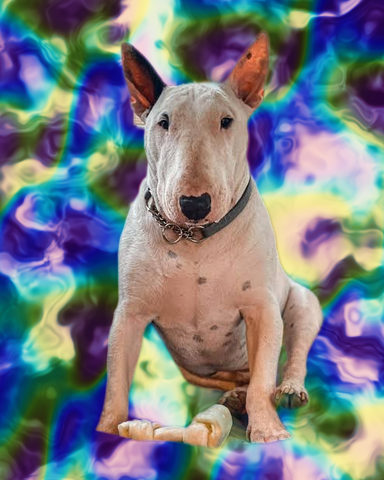
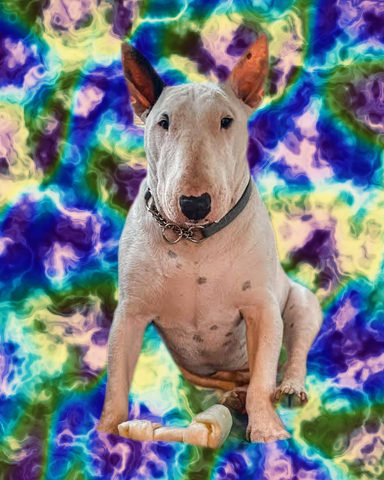
feat(noise_field)!: make worley fractal
Worley ignored octaves, persistence and lacunarity, so a third of the
kinds broke the one promise those parameters make. It now sums layers of
F1: layer i has cells of scale / lacunarity^i and weight persistence^i,
each layer measured in its own cells so layers share a range. With
octaves 1 the picture is the old one (max diff 3e-7); the default
octaves 4 changes worley's default look to clustered, fractal cells.

BREAKING CHANGE: worley's default look changes; set octaves = 1 for the
old picture.

diff --git a/src/bullterrier_image/effects/noise_field/effect.py b/src/bullterrier_image/effects/noise_field/effect.py
@@ -24,8 +24,8 @@ class NoiseFieldParams(EffectParams):
         doc="The noise: 'value' (random values on a lattice, smoothly interpolated: soft blotches), 'perlin' "
         "(gradient noise: random slopes on a lattice, finer and more even, zero at the lattice points) or 'worley' "
         "(cellular noise: the distance to the nearest of a scatter of random points, one per cell of `scale` px, "
-        "dark at each point and brightening away from it; a single layer, so it ignores `octaves`, `persistence` "
-        "and `lacunarity`) or 'sine' (crossed sine waves: smooth, regular swirls; the classic plasma).",
+        "dark at each point and brightening away from it; each layer is a finer scatter) or 'sine' (crossed sine "
+        "waves: smooth, regular swirls; the classic plasma).",
     )
     scale: float = param(
         120.0,
@@ -41,7 +41,7 @@ class NoiseFieldParams(EffectParams):
         unit="count",
         min=1,
         max=8,
-        doc="How many layers of noise are summed (value, perlin, sine), each finer than the last (by `lacunarity`) and "
+        doc="How many layers of noise are summed (all kinds), each finer than the last (by `lacunarity`) and "
         "weaker (by `persistence`). 1 = smooth, more = more fine detail. Each sine layer is two waves crossing at "
         "random angles. Layers finer than one pixel (sine: two pixels) are dropped.",
     )
@@ -50,7 +50,7 @@ class NoiseFieldParams(EffectParams):
         unit="ratio",
         min=0,
         max=1,
-        doc="How much weaker each finer layer is than the one before (value, perlin, sine): each layer's weight is "
+        doc="How much weaker each finer layer is than the one before (all kinds): each layer's weight is "
         "this to the power of its number. 0 = only the coarsest layer, 1 = every layer equally strong (very rough).",
     )
     lacunarity: float = param(
@@ -58,9 +58,9 @@ class NoiseFieldParams(EffectParams):
         unit="ratio",
         min=1,
         max=4,
-        doc="How much finer each layer is than the one before (value, perlin, sine): the lattice spacing or wavelength "
-        "is divided by this per layer. 1 = every layer the same size, 2 = each half as coarse, larger = detail drops "
-        "off faster.",
+        doc="How much finer each layer is than the one before (all kinds): the lattice spacing, cell size or "
+        "wavelength is divided by this per layer. 1 = every layer the same size, 2 = each half as coarse, larger = "
+        "detail drops off faster.",
     )
     warp: float = param(
         0.0,
@@ -124,18 +124,23 @@ def _perlin(shape: tuple[int, int], params: NoiseFieldParams, seed: int | Sequen
 
 
 def _worley(shape: tuple[int, int], params: NoiseFieldParams, seed: int | Sequence[int]) -> np.ndarray:
-    """Distance in px from every pixel to the nearest of a jittered grid of feature points, one per `scale` px cell."""
+    """Seeded fractal F1 of `shape`, layered like `fractal`: per layer the distance to the nearest point of a jittered
+    grid, in cells (so every layer has the same range whatever its cell size)."""
     height, width = shape
-    rows, cols = math.ceil(height / params.scale) + 2, math.ceil(width / params.scale) + 2  # a ring of cells around
     rng = np.random.default_rng(seed)
-    cell_y, cell_x = np.indices((rows, cols)) - 1
-    point_y = (cell_y + rng.random((rows, cols))) * params.scale
-    point_x = (cell_x + rng.random((rows, cols))) * params.scale
-    pixel_y, pixel_x = np.indices(shape)
-    distance, _ = cKDTree(np.column_stack((point_y.ravel(), point_x.ravel()))).query(
-        np.column_stack((pixel_y.ravel(), pixel_x.ravel()))
-    )
-    return standardise(distance.reshape(shape))
+    pixels = np.column_stack([axis.ravel() for axis in np.indices(shape)])
+    field = np.zeros(shape, np.float32)
+    for octave in range(params.octaves):
+        cell = params.scale / params.lacunarity**octave
+        if cell < 1:
+            break
+        rows, cols = math.ceil(height / cell) + 2, math.ceil(width / cell) + 2  # a ring of cells around
+        cell_y, cell_x = np.indices((rows, cols)) - 1
+        point_y = (cell_y + rng.random((rows, cols))) * cell
+        point_x = (cell_x + rng.random((rows, cols))) * cell
+        distance, _ = cKDTree(np.column_stack((point_y.ravel(), point_x.ravel()))).query(pixels)
+        field += params.persistence**octave * (distance / cell).reshape(shape)
+    return standardise(field)
 
 
 def _wave(
@@ -197,8 +202,9 @@ def noise_field(rgb: np.ndarray, params: NoiseFieldParams) -> np.ndarray:
     standardised to zero mean and unit deviation over the picture and passed through the normal cumulative
     distribution, so a pixel's place on the colour ramp is about its rank among all pixels. 'value' is `fractal`
     noise; 'perlin' sums octaves of gradient noise (a Gaussian random slope at each lattice point, blended with
-    Perlin's fade curve); 'worley' is the distance to the nearest feature point (F1); 'sine' sums octaves of two
-    plane sine waves sin(2 pi (x cos a + y sin a) / w + p) of wavelength w = `scale` / `lacunarity`**i, random
+    Perlin's fade curve); 'worley' sums octaves of F1 (the distance to the nearest feature point, one point per cell
+    of `scale` / `lacunarity`**i, measured in those cells), weight `persistence`**i; 'sine' sums octaves of two plane
+    sine waves sin(2 pi (x cos a + y sin a) / w + p) of wavelength w = `scale` / `lacunarity`**i, random
     directions a and phases p, weight `persistence`**i, layer i evaluated at positions pushed along x and y by `warp`
     px times the two waves of layer i - 1.
 

diff --git a/tests/effects/noise_field/test_noise_field.py b/tests/effects/noise_field/test_noise_field.py
@@ -12,7 +12,6 @@ NAME = "noise_field"
 # kinds), so a merely small warp moves no pixel by more than this; a jump on leaving 0 does.
 TINY_WARP_MOVES_BY_AT_MOST = 0.005
 KINDS = ["value", "perlin", "worley", "sine"]
-LAYERED = ["value", "perlin", "sine"]  # the kinds built from octaves; worley is a single layer
 GREY = ["#000000", "#ffffff"]
 
 
@@ -62,7 +61,7 @@ def test_a_larger_scale_gives_broader_features(kind: str) -> None:
     assert fine < medium < coarse
 
 
-@pytest.mark.parametrize("kind", LAYERED)
+@pytest.mark.parametrize("kind", KINDS)
 @pytest.mark.parametrize(
     ("smoother", "rougher"),
     [
@@ -77,10 +76,20 @@ def test_the_layers_are_set_by_octaves_persistence_and_lacunarity(kind: str, smo
     assert autocorrelation(rough, lag=1) < autocorrelation(smooth, lag=1) - 0.01
 
 
-def test_worley_is_one_layer_whatever_the_octave_settings() -> None:
-    single = field({"kind": "worley", "octaves": 1, "persistence": 0.1, "lacunarity": 1.0})
+@pytest.mark.parametrize("kind", KINDS)
+def test_with_one_octave_persistence_and_lacunarity_change_nothing(kind: str) -> None:
+    """There is no second layer to weigh or to make finer."""
+    single = field({"kind": kind, "octaves": 1, "persistence": 0.1, "lacunarity": 1.0, "seed": 2})
     np.testing.assert_array_equal(
-        field({"kind": "worley", "octaves": 5, "persistence": 0.9, "lacunarity": 3.0}), single
+        field({"kind": kind, "octaves": 1, "persistence": 0.9, "lacunarity": 3.0, "seed": 2}), single
+    )
+
+
+@pytest.mark.parametrize("kind", KINDS)
+def test_zero_persistence_leaves_only_the_first_layer(kind: str) -> None:
+    only_first = field({"kind": kind, "octaves": 1, "seed": 6})
+    np.testing.assert_allclose(
+        field({"kind": kind, "octaves": 4, "persistence": 0.0, "seed": 6}), only_first, atol=1e-5
     )
 
 
@@ -100,15 +109,16 @@ def test_worley_has_one_feature_point_per_cell() -> None:
     """Distance to the nearest feature point is 0 at the point and grows away from it, so the picture's local minima
     are the feature points: one in each 20 px cell. Away from the border (where the nearest point may lie outside the
     picture) the 180 x 180 px middle of 200 px holds 81 cells' worth, all equally dark (distance ~0)."""
-    grey = field({"kind": "worley", "scale": 20.0, "seed": 3}, shape=(200, 200))
+    grey = field({"kind": "worley", "scale": 20.0, "octaves": 1, "seed": 3}, shape=(200, 200))
     minima = (grey == ndimage.minimum_filter(grey, size=3))[10:-10, 10:-10]
     assert minima.sum() == pytest.approx(81, abs=10)
     assert grey[10:-10, 10:-10][minima].max() - grey.min() < 0.1
 
 
-@pytest.mark.parametrize("kind", ["value", "perlin"])
+@pytest.mark.parametrize("kind", ["value", "perlin", "worley"])
 def test_layers_finer_than_a_pixel_are_left_out(kind: str) -> None:
-    """Lattice spacings 3, 1.5, 0.75, ...: from the third layer on they are finer than the pixel grid: no effect."""
+    """Lattice spacings or cell sizes 3, 1.5, 0.75, ...: from the third layer on they are finer than the pixel grid, so
+    they add nothing."""
     two = field({"kind": kind, "scale": 3.0, "octaves": 2})
     np.testing.assert_array_equal(field({"kind": kind, "scale": 3.0, "octaves": 8}), two)
 
@@ -129,13 +139,14 @@ def test_perlin_bends_smoothly_across_the_lattice_lines() -> None:
 
 
 def test_worley_has_feature_points_just_beyond_the_border_too() -> None:
-    """The nearest point to a pixel at the edge can lie outside the picture, so over many seeds the top and left 3 px
-    bands are as dark as the middle on average (without points beyond the edge they are about 0.2 brighter)."""
+    """The nearest point to a pixel at the edge can lie outside the picture, so over many seeds the 3 px bands along
+    all four edges are as dark as the middle on average (without points beyond the edge they are about 0.2 brighter)."""
     excess = []
     for seed in range(10):
-        grey = field({"kind": "worley", "scale": 20.0, "seed": seed}, shape=(200, 200))
+        grey = field({"kind": "worley", "scale": 20.0, "octaves": 1, "seed": seed}, shape=(200, 200))
         middle = grey[40:-40, 40:-40].mean()
-        excess += [grey[:3, 40:-40].mean() - middle, grey[40:-40, :3].mean() - middle]
+        bands = [grey[:3, 40:-40], grey[-3:, 40:-40], grey[40:-40, :3], grey[40:-40, -3:]]
+        excess += [band.mean() - middle for band in bands]
     assert np.mean(excess) == pytest.approx(0.0, abs=0.08)
 
 
@@ -159,13 +170,6 @@ def test_sine_layers_finer_than_two_pixels_are_left_out() -> None:
     cannot show, so they add nothing."""
     two = field({"kind": "sine", "scale": 5.0, "octaves": 2, "seed": 2})
     np.testing.assert_array_equal(field({"kind": "sine", "scale": 5.0, "octaves": 8, "seed": 2}), two)
-
-
-def test_sine_zero_persistence_leaves_only_the_first_layer() -> None:
-    only_first = field({"kind": "sine", "octaves": 1, "seed": 6})
-    np.testing.assert_allclose(
-        field({"kind": "sine", "octaves": 4, "persistence": 0.0, "seed": 6}), only_first, atol=1e-5
-    )
 
 
 def test_sine_warp_needs_a_layer_before_to_push_by() -> None:
